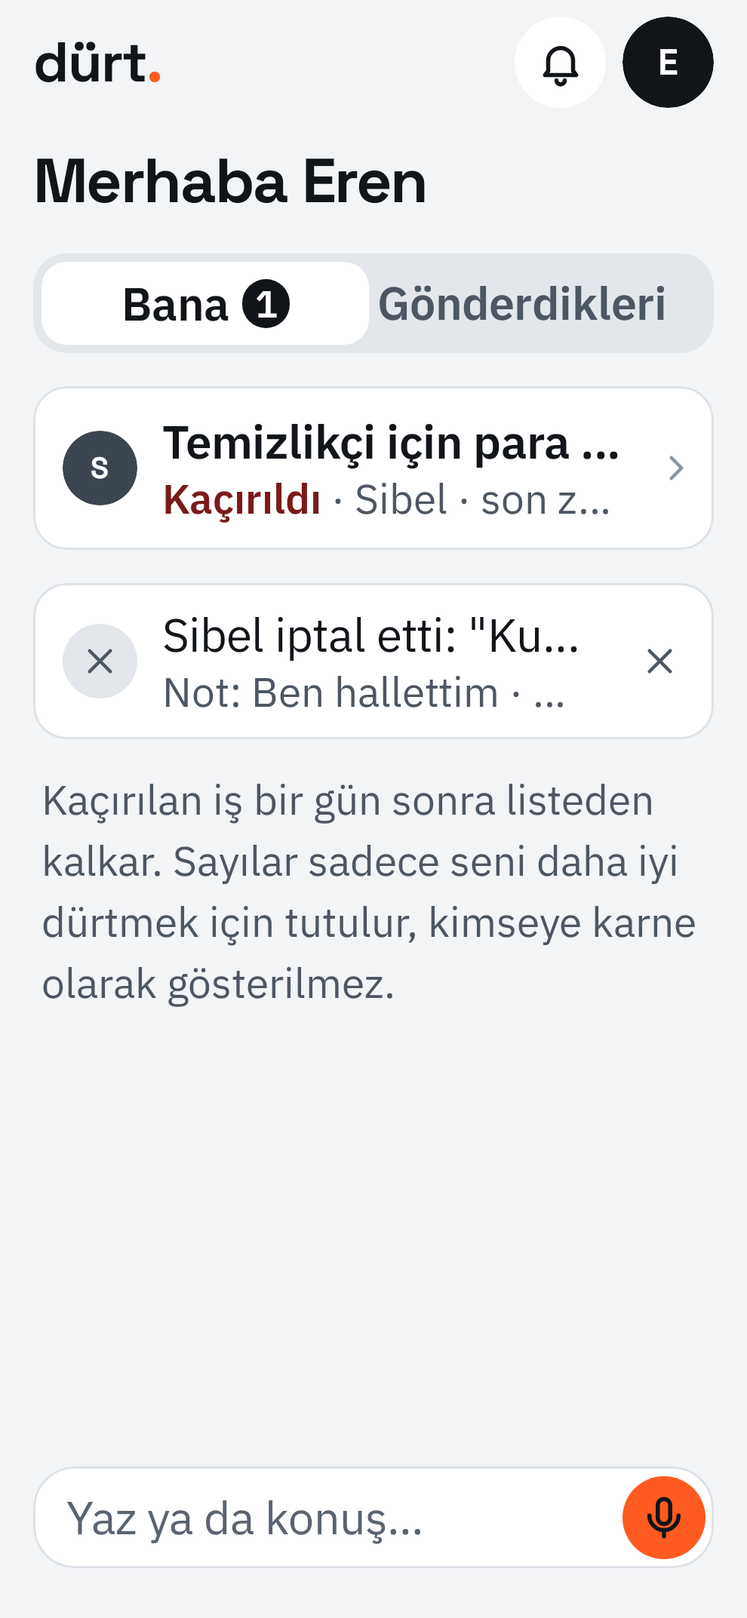
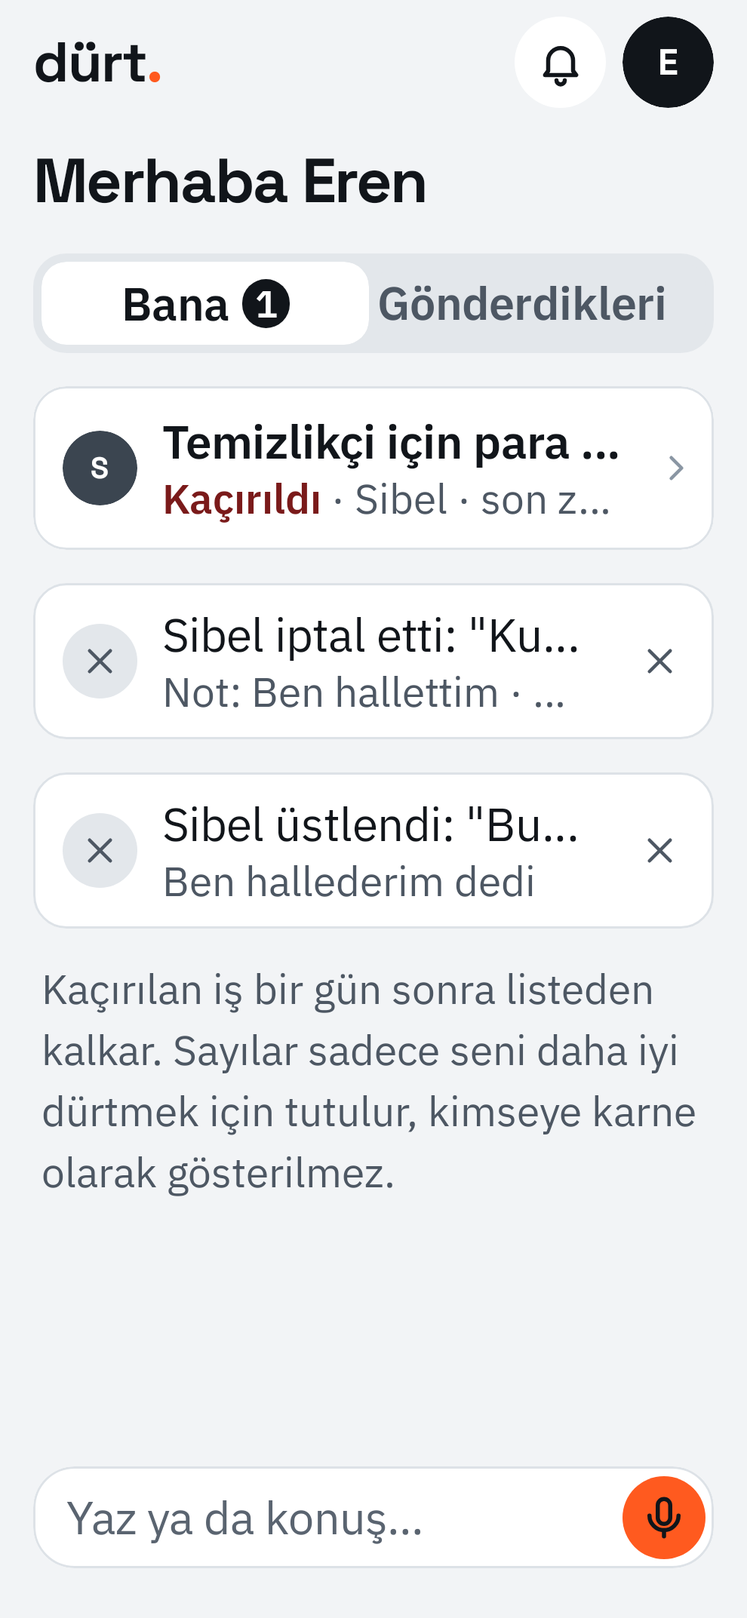
NUD-122 Ben hallederim puts the task in the sender's list
Ben hallederim on a dropped task only closed it, so it was in nobody's
list and the recipient was not told. It now also opens the same task for
the sender as a one-off to self at the same time (a passed time only
closes it), and the recipient's phone says "Sibel üstlendi".
open-questions #8 and #36, domain.md, screens 4j and testing.md change
with it.

Changed region(s): [[0.0606, 0.4685, 0.9394, 0.7497], [0.6667, 0.6872, 0.7576, 0.7184]]

diff --git a/apps/android/app/src/main/kotlin/app/nuddle/alarm/AndroidTaskAnnouncer.kt b/apps/android/app/src/main/kotlin/app/nuddle/alarm/AndroidTaskAnnouncer.kt
@@ -235,6 +235,10 @@ class AndroidTaskAnnouncer
                     context.getString(R.string.issue_reassigned_title, name, task.title) to stopped
                 }
 
+                TaskClose.Handled -> {
+                    context.getString(R.string.issue_handled_title, name, task.title) to context.getString(R.string.issue_handled_line)
+                }
+
                 TaskClose.Done -> {
                     context.getString(R.string.bell_done_title, name, task.title) to context.getString(R.string.bell_said_done)
                 }
@@ -244,30 +248,22 @@ class AndroidTaskAnnouncer
                 }
 
                 TaskClose.Missed -> {
-                    val line =
-                        when {
-                            task.finishMode == FinishMode.PHOTO.value && task.isMoment -> {
-                                context.getString(
-                                    R.string.issue_missed_photo_moment,
-                                )
-                            }
-
-                            task.finishMode == FinishMode.PHOTO.value -> {
-                                context.getString(R.string.issue_missed_photo)
-                            }
-
-                            task.isMoment -> {
-                                context.getString(R.string.issue_missed_done_moment, name)
-                            }
-
-                            else -> {
-                                context.getString(R.string.issue_missed_done, name)
-                            }
-                        }
-                    context.getString(R.string.close_missed_title, name, task.title) to line
+                    context.getString(R.string.close_missed_title, name, task.title) to missedLine(task, name)
                 }
             }
         }
+
+        /** Why a missed task counts as missed: no photo or no Bitti, by its moment or its deadline. */
+        private fun missedLine(
+            task: TaskEntity,
+            name: String,
+        ): String =
+            when {
+                task.finishMode == FinishMode.PHOTO.value && task.isMoment -> context.getString(R.string.issue_missed_photo_moment)
+                task.finishMode == FinishMode.PHOTO.value -> context.getString(R.string.issue_missed_photo)
+                task.isMoment -> context.getString(R.string.issue_missed_done_moment, name)
+                else -> context.getString(R.string.issue_missed_done, name)
+            }
 
         override fun withdrawCantReach(taskId: String) {
             NotificationManagerCompat.from(context).cancel(NotificationIds.reach(taskId))

diff --git a/apps/android/app/src/main/kotlin/app/nuddle/ui/screens/home/HomeIssues.kt b/apps/android/app/src/main/kotlin/app/nuddle/ui/screens/home/HomeIssues.kt
@@ -93,7 +93,11 @@ internal fun CancelledRow(
         Column(Modifier.weight(1f).semantics(mergeDescendants = true) {}) {
             Text(
                 stringResource(
-                    if (task.reassigned) R.string.issue_reassigned_title else R.string.issue_cancelled_title,
+                    when {
+                        task.handled -> R.string.issue_handled_title
+                        task.reassigned -> R.string.issue_reassigned_title
+                        else -> R.string.issue_cancelled_title
+                    },
                     task.byName,
                     task.title,
                 ),
@@ -104,7 +108,16 @@ internal fun CancelledRow(
             )
             Text(
                 text =
-                    task.note?.let { stringResource(R.string.separator_dot, stringResource(R.string.issue_note, it), stopped) } ?: stopped,
+                    when {
+                        task.handled -> {
+                            stringResource(R.string.issue_handled_line)
+                        }
+
+                        else -> {
+                            task.note?.let { stringResource(R.string.separator_dot, stringResource(R.string.issue_note, it), stopped) }
+                                ?: stopped
+                        }
+                    },
                 style = DurtTheme.type.caption,
                 color = colors.textSecondary,
                 maxLines = 1,
@@ -192,7 +205,7 @@ private fun IssuesPreviewOf(state: HomeUiState) {
     }
 }
 
-/** 7e in Bana: Eren missed a task from Sibel, and Sibel cancelled another. */
+/** 7e in Bana: Eren missed a task from Sibel, Sibel cancelled another and took over a third. */
 @PreviewScreens
 @Composable
 private fun HomeScreenMissedPreview() {
@@ -206,7 +219,12 @@ private fun HomeScreenMissedPreview() {
                         listOf(
                             MissedUi("t1", "Temizlikçi için para çek", DeadlineText.Today("09:00"), "sibel", "Sibel", "+905321234567"),
                         ),
-                    cancelled = listOf(CancelledUi("t2", "Kuru temizlemeyi al", "Sibel", "Ben hallettim")),
+                    cancelled =
+                        listOf(
+                            CancelledUi("t2", "Kuru temizlemeyi al", "Sibel", "Ben hallettim"),
+                            // Ben hallederim on a task Eren dropped (NUD-122).
+                            CancelledUi("t3", "Bulaşık makinesini boşalt", "Sibel", null, handled = true),
+                        ),
                 ),
         ),
     )

diff --git a/apps/android/app/src/main/kotlin/app/nuddle/ui/screens/home/Issues.kt b/apps/android/app/src/main/kotlin/app/nuddle/ui/screens/home/Issues.kt
@@ -35,6 +35,8 @@ data class CancelledUi(
     val note: String?,
     /** Kime changed (NUD-114): the sender gave the task to someone else, unnamed here. */
     val reassigned: Boolean = false,
+    /** Ben hallederim on a task I dropped (NUD-122): the sender took it over. */
+    val handled: Boolean = false,
 )
 
 enum class SentIssue { Dropped, Missed }
@@ -73,7 +75,7 @@ internal val CANCELLED_ROW_TTL = 1.days
 
 /**
  * The cards from the stored tasks and their events. A missed task to me shows while the server keeps it in my list
- * (one day); a cancel shows for a day, but not "Ben hallederim" on a task I dropped myself. Newest first.
+ * (one day); a cancel shows for a day, "Ben hallederim" on a task I dropped too (NUD-122). Newest first.
  */
 fun issues(
     tasks: List<TaskEntity>,
@@ -102,7 +104,14 @@ fun issues(
                 val cancel = events[task.id].orEmpty().lastOrNull { it.type == EventTypes.CANCELLED }
                 if (cancel == null || cancel.reason !in SHOWN_CANCELS) return@mapNotNull null
                 val by = connections[task.senderId] ?: return@mapNotNull null
-                CancelledUi(task.id, task.title, by.displayName, cancel.note, reassigned = cancel.reason == REASSIGNED)
+                CancelledUi(
+                    task.id,
+                    task.title,
+                    by.displayName,
+                    cancel.note,
+                    reassigned = cancel.reason == REASSIGNED,
+                    handled = cancel.reason == SENDER_HANDLES,
+                )
             }
     val sent =
         newestFirst
@@ -136,4 +145,5 @@ private const val SENDER_CANCELLED = "sender_cancelled"
 private const val REASSIGNED = "reassigned"
 
 /** The cancels the recipient sees a row for: the sender took the task back, or gave it to someone else. */
-private val SHOWN_CANCELS = setOf(SENDER_CANCELLED, REASSIGNED)
+private const val SENDER_HANDLES = "sender_handles"
+private val SHOWN_CANCELS = setOf(SENDER_CANCELLED, REASSIGNED, SENDER_HANDLES)

diff --git a/apps/web/test/scenario/task-lifecycle.test.ts b/apps/web/test/scenario/task-lifecycle.test.ts
@@ -375,6 +375,39 @@ describe("scenarios: task lifecycle", () => {
     expect(world.pendingActions(taskId)).toEqual([]);
   });
 
+  it("'Ben hallederim' puts the same task in the sender's own list (NUD-122)", async () => {
+    const { world, sibel, eren } = await sibelAndEren();
+    const taskId = await writeTask(sibel, TEXT.photoToEren);
+    await world.advanceTo(at("2026-10-12T07:40:00"));
+    expect(await eren.command(taskId, { type: "cant_today", note: null })).toEqual({ ok: true });
+    expect(await sibel.command(taskId, { type: "sender_handles" })).toEqual({ ok: true });
+
+    const mine = world.tasksWrittenBy("sibel").filter((t) => t.id !== taskId);
+    expect(mine).toHaveLength(1);
+    const taken = mine[0];
+    expect(taken).toMatchObject({
+      recipientId: sibel.person.id,
+      title: "Temizlikçi için para çek",
+      deadline: at("2026-10-12T09:00:00"),
+      status: "SCHEDULED",
+      // A photo to approve herself makes no sense on a task to self.
+      finishMode: "done",
+    });
+    await world.advanceTo(at("2026-10-12T09:30:00"));
+    expect(sibel.phone.ringsFor(taken?.id ?? "")).not.toEqual([]);
+    expect(world.task(taskId).status).toBe("CANCELLED");
+  });
+
+  it("'Ben hallederim' after the time has passed only closes it", async () => {
+    const { world, sibel, eren } = await sibelAndEren();
+    const taskId = await writeTask(sibel, TEXT.trashToEren);
+    await world.advanceTo(at("2026-10-12T18:46:00"));
+    expect(await eren.command(taskId, { type: "cant_today", note: null })).toEqual({ ok: true });
+    await world.advanceTo(at("2026-10-12T19:30:00"));
+    expect(await sibel.command(taskId, { type: "sender_handles" })).toEqual({ ok: true });
+    expect(world.tasksWrittenBy("sibel").map((t) => t.id)).toEqual([taskId]);
+  });
+
   it("human channel (7a): only while the task is open", async () => {
     const { world, sibel, eren } = await sibelAndEren();
     const taskId = await writeTask(sibel, TEXT.trashToEren);

diff --git a/apps/web/src/api/services.ts b/apps/web/src/api/services.ts
@@ -753,11 +753,52 @@ export async function taskCommand(
     // A sender's cancel ends a series; any other close brings the next occurrence (ADR 0021).
     const next =
       cmd.type === "cancel" ? noEffects : await spawnNextOccurrence(tx, deps, task, o, now);
+    // Ben hallederim: the same task lands in the sender's own list (NUD-122, open-questions#8).
+    const taken =
+      cmd.type === "sender_handles" ? await takeOver(tx, deps, caller.id, task, now) : null;
     return {
       result: { taskId: o.task.id, status: o.task.status, planVersion: o.task.planVersion },
-      effects: mergeEffects(effectsOf(o), next),
+      effects: mergeEffects(mergeEffects(effectsOf(o), next), taken ?? noEffects),
     };
   });
+}
+
+/**
+ * The task a sender takes over with Ben hallederim, as a one-off to self at the same time. A time
+ * already past leaves only the cancel: the sender sets a new one by writing it.
+ */
+async function takeOver(
+  tx: Tx,
+  deps: AppDeps,
+  senderId: PersonId,
+  task: Task,
+  now: Date,
+): Promise<Effects | null> {
+  const time = task.remindAt ?? task.deadline;
+  if (time.getTime() <= now.getTime()) return null;
+  const created = await createTaskTx(
+    tx,
+    deps,
+    senderId,
+    {
+      recipientId: senderId,
+      title: task.title,
+      detail: task.detail,
+      deadline: time,
+      timing: task.timing,
+      missAfterMinutes:
+        task.remindAt === null
+          ? null
+          : Math.round((task.deadline.getTime() - task.remindAt.getTime()) / MINUTE),
+      leadMinutes: task.leadMinutes,
+      // A photo to approve myself makes no sense; Bitti is enough on a task to self.
+      finishMode: task.finishMode === "photo" ? "done" : task.finishMode,
+      rawText: task.rawText,
+      repeat: null,
+    },
+    now,
+  );
+  return created.effects;
 }
 
 /**

diff --git a/apps/android/app/src/test/kotlin/app/nuddle/ui/IssuesTest.kt b/apps/android/app/src/test/kotlin/app/nuddle/ui/IssuesTest.kt
@@ -56,7 +56,7 @@ class IssuesTest {
     }
 
     @Test
-    fun `a cancel by the sender shows for a day with its note, but not Ben hallederim on a task I dropped`() {
+    fun `a cancel by the sender shows for a day with its note, and Ben hallederim as taken over`() {
         val cancelled = aTask(status = "CANCELLED").copy(statusChangedAt = (now - 23.hours).toEpochMilliseconds())
         val cancelEvent = event("cancelled", """{"reason":"sender_cancelled","note":"Ben hallettim"}""")
         val taken = aTask(id = "taken", status = "CANCELLED").copy(statusChangedAt = now.toEpochMilliseconds())
@@ -64,7 +64,14 @@ class IssuesTest {
         val events = mapOf(Cast.TASK_ID to listOf(cancelEvent), "taken" to listOf(takenEvent))
 
         val result = issues(listOf(cancelled, taken), events, Cast.EREN_ID, sibel, now, istanbul)
-        assertEquals(listOf(CancelledUi(Cast.TASK_ID, "Temizlikçi için para çek", "Sibel", "Ben hallettim")), result.cancelled)
+        // Ben hallederim on a task I dropped shows too, as taken over (NUD-122).
+        assertEquals(
+            listOf(
+                CancelledUi("taken", "Temizlikçi için para çek", "Sibel", null, handled = true),
+                CancelledUi(Cast.TASK_ID, "Temizlikçi için para çek", "Sibel", "Ben hallettim"),
+            ),
+            result.cancelled,
+        )
 
         val dayLater = issues(listOf(cancelled), events, Cast.EREN_ID, sibel, now + 1.hours, istanbul)
         assertTrue(dayLater.cancelled.isEmpty())

diff --git a/apps/android/app/src/main/kotlin/app/nuddle/data/sync/SyncRepository.kt b/apps/android/app/src/main/kotlin/app/nuddle/data/sync/SyncRepository.kt
@@ -106,6 +106,9 @@ sealed interface TaskClose {
     /** The sender gave the task to me to someone else (NUD-114). */
     data object Reassigned : TaskClose
 
+    /** I said Bugün olmaz and the sender took it over: Ben hallederim (NUD-122). */
+    data object Handled : TaskClose
+
     /** My task: the recipient said Bitti. */
     data object Done : TaskClose
 
@@ -383,8 +386,11 @@ private fun closeToMe(
     before: String,
     events: List<TaskEventEntity>,
 ): TaskClose? {
-    if (task.status != TaskStatus.CANCELLED || before !in STILL_MINE) return null
+    if (task.status != TaskStatus.CANCELLED) return null
     val cancel = events.lastOrNull { it.type == EventTypes.CANCELLED }
+    // Ben hallederim answers my own Bugün olmaz, so the task was no longer mine (NUD-122).
+    if (cancel?.reason == SENDER_HANDLES) return TaskClose.Handled.takeIf { before == TaskStatus.DROPPED.value }
+    if (before !in STILL_MINE) return null
     return when (cancel?.reason) {
         SENDER_CANCELLED -> TaskClose.Cancelled(cancel.note)
         REASSIGNED -> TaskClose.Reassigned
@@ -409,6 +415,7 @@ private fun closeOfMine(
 
 private const val SENDER_CANCELLED = "sender_cancelled"
 private const val REASSIGNED = "reassigned"
+private const val SENDER_HANDLES = "sender_handles"
 
 /** A task to me that was still mine here: open, waiting for approval or missed, not one I closed myself. */
 private val STILL_MINE =

diff --git a/apps/android/app/src/test/kotlin/app/nuddle/data/SyncAndOutboxTest.kt b/apps/android/app/src/test/kotlin/app/nuddle/data/SyncAndOutboxTest.kt
@@ -399,6 +399,27 @@ class SyncAndOutboxTest {
         }
 
     @Test
+    fun `Ben hallederim on a task I dropped tells me Sibel took it over (NUD-122)`() =
+        runTest {
+            sessions.cursor = "40"
+            val repo = syncRepository()
+            val dropped =
+                syncBody
+                    .replace("\"connections\":[]", sibelConnection)
+                    .replace("\"status\":\"SCHEDULED\"", "\"status\":\"DROPPED\"")
+            val handled =
+                dropped
+                    .replace("\"status\":\"DROPPED\"", "\"status\":\"CANCELLED\"")
+                    .replace("\"events\":[]", "\"events\":[${event(2, "cancelled", """{"reason":"sender_handles"}""")}]")
+            server.enqueue(json(200, dropped))
+            server.enqueue(json(200, handled))
+
+            repeat(2) { assertTrue(repo.sync()) }
+
+            assertEquals(listOf(TaskClose.Handled), announcer.closes.map { it.third })
+        }
+
+    @Test
     fun `what I closed myself, and a full sync, tell me nothing (NUD-115)`() =
         runTest {
             sessions.cursor = null

diff --git a/docs/open-questions.md b/docs/open-questions.md
@@ -11,7 +11,7 @@ Things not yet decided. If you hit one while building, do not decide silently: p
 5. **Setup copy for self-only users (2c).** Current copy mentions Sibel. *Default:* "İşlerini kaçırmaya başlarsan böyle dürterim."
 6. **Voice input cancel gesture.** *Decided (NUD-48):* no gesture. Voice input is tap to dictate into the box; the person deletes or fixes the text before sending.
 7. **Self tasks with photo mode.** *Default:* the photo closes the task, no approval step.
-8. **"Ben hallederim" on a dropped task (5d).** *Default:* closes as `CANCELLED` with reason `sender_handles`.
+8. **"Ben hallederim" on a dropped task (5d).** *Decided 2026-10-21 (NUD-122):* the task closes as `CANCELLED` with reason `sender_handles`, and the same task opens for the sender as a one-off to self at the same time (title, detail, timing, grace and lead kept; a photo task becomes "Bitti" since nobody else approves it), so it is in her list and pokes her. A time already past only closes it. The recipient gets the 4j notification "Sibel üstlendi: "Çöpü at"" | "Ben hallederim dedi", and the same row on home for a day. A tester tapped it and found the task nowhere.
 9. **"Sonradan yaptım" after missed.** *Default:* `DONE` with `late = true`.
 10. **Premium price and scope** (SMS, voice call / IVR, task by e-mail). Not needed for the MVP.
 
@@ -45,7 +45,7 @@ Things not yet decided. If you hit one while building, do not decide silently: p
 33. **Consent flow details** (0f, 0g, 1c, 1d). *Decided 2026-10-12:* the consent screen opens by itself once per open invite to me (right after sign-in, as soon as the first sync brings it; also for one that arrives later), then the invite waits in the bell. İzin ver → 0g → Başla → setup (2c) when a permission is missing, otherwise home. "Değiştir" opens a sheet "Sibel senin neyin?" with the six chips; my side starts as the inverse of the inviter's pick (parent ↔ child), and once changed the row adds "Senin için: Çocuğum". Lines with a name plus suffix are rephrased (#21): "İstediğin an bağlantıyı kaldırabilirsin. Karşı tarafa bildirim gitmez.", "Reddedersen karşı tarafa bildirim gitmez."; for "Diğer" the row reads "Sibel seni ekledi.". An invite that is no longer open: "Bu davet artık geçerli değil / Davet geri alınmış ya da daha önce cevaplanmış.". A failed answer: "Cevabın gitmedi / Bağlantını kontrol edip tekrar dene.". The name prefilled on 0e from an invite and the invited welcome (0b) come with invite links. Kept here so the number stays stable.
 34. **Task to someone else: copy with suffixes and details not in the design** (4a, 4b, 4c, 4i, 7c, 7d). Names and times take no suffix (#21). *Decided 2026-10-12:* 4b body "Temizlikçi için para çek · son zaman yarın 09:00. Bitince fotoğrafını istiyor." (no second sentence for a "Bitti" task); 4a deadline row "Yarın 09:00", button "Gönder", reachability "Şu an Eren için en güçlü dürtme: sesli bildirim."; 4i section "Senin yazdıkların" (the 5c name), toast title "Gönderildi", sub line "Eren · Para çek · yarın 09:00 · bitince fotoğraf"; 4c "Sibel yazdı · 14:32", with "Dün" or the date in front when it was not today; 7c reachability "Şu an Eren için en güçlü dürtme: tam ekran. Bitince sana yazarım." (levels "tam ekran", "sesli bildirim", "sessiz bildirim"; with none "Şu an Eren telefonunda dürtülemiyor. Bitince sana yazarım."), and no "Dürtmeler başladı" since the plan is hidden from the sender, hint "Bir satıra dokunup değiştirebilirsin. Eren değişikliği kısa bir notla görür."; only Son zaman (the 2b quick picks and Saat seç) and Nasıl bitsin can be changed, Kime and Detay stay as written (*changed 2026-10-19, NUD-114:* Kime can be changed too, screens.md Task detail); the row's sheet repeats "Eren değişikliği kısa bir notla görür." and a failed save says "Değişiklik gitmedi / Bağlantını kontrol edip tekrar dene."; 7d body "Dürtmeler hemen durur. Eren kısa bir not görür: "Sibel bu görevi iptal etti."". A new task from someone else is announced (4b) only when it arrives in a later sync, never for the tasks a sign-in brings. Once I have an active connection, home shows no invite card (neither 1a nor the compact one of 2f; 4c and 4i show none); inviting more people moves to Profile (5a). Kept here so the number stays stable.
 35. **Photo and approval: copy with suffixes and details not in the design** (4d, 4e, 4f, 4g, 6e). Names and times take no suffix (#21). *Default:* 4d sub line "Sibel görecek · 1.000 TL istendi", note "Fotoğrafı sadece Sibel görür, görev kapanınca silinir. ...", button "Gönder"; a round white shutter ("Fotoğraf çek") before the shot; for a task to self the sub line is only the detail and the note "Fotoğraf görev kapanınca silinir. ..."; without a camera (permission refused or none on the phone) "Kamera kullanılamıyor / Kamera izni olmadan fotoğraf çekemem. Fotoğrafsız da bitirebilirsin." with "Fotoğrafsız bitti". The next-up card of any photo task, to self too, has "Bitti, çek" with a camera icon. 4e "Fotoğrafı Sibel görüyor. Onaylayınca görev kapanır." with "Gönderildi · 08:24 · Dürtme durdu" ("Gönderiliyor · Dürtme durdu" while still uploading) and "Sibel bakmazsa 3 saat sonra kendiliğinden kapanır."; 4g "Dürtme kaldığı yerden devam ediyor" without the next time (#3) and "Yeni fotoğraf çek"; on both the deadline joins the line under the title ("1.000 TL · son zaman bugün 09:00"). 4f subline "Eren fotoğraf gönderdi · 08:24 · 1.000 TL istemiştin"; a photo that cannot be loaded says "Fotoğraf açılamadı." with Tekrar dene. When a photo comes, the sender gets "Eren fotoğraf gönderdi / Temizlikçi için para çek · onayını bekliyor." on the tasks channel, Gör opens 4f; in "Senin yazdıkların" the task shows "Onayını bekliyor" on top with "fotoğraf geldi". 6e: on the 4e card "Gönderilemedi · Dürtme durdu" opens the screen; its alert title is "Gönderilemedi: Sibel" instead of "Sibel'e gönderilemedi".
-36. **Drop, missed and human channel: copy with suffixes and details not in the design** (7f, 5d, 7e, 7a, 7b). Names, times and task titles take no suffix (#21). *Default:* 7f sub line "Sibel için bir not bırakmak ister misin? Zorunlu değil.", one chip at a time, the field "Ya da kendin yaz" wins over a chip, "Notla gönder" only once there is a note; the sheet opens from "Bugün yapamayacağım" on the full screen poke, while the notification's "Bugün olmaz" closes without a note, and a task to self closes without the sheet. 5d (in "Senin yazdıkların", on top; since NUD-67 a row under "Cevabını bekliyor" whose detail has the message and the buttons) sub line "Son zaman bugün 19:00"; dropped "Eren bugün yapamayacağını söyledi." plus "Not: vaktim olmadı" when there is one; missed "Son zaman geçti, fotoğraf gelmedi." ("..., Eren bitti demedi." for a Bitti task) plus "4 kez dürttüm." or "4 kez dürttüm, sana da haber verdim." once the human channel fired (nothing when no poke rang); "Yeni zaman ver" and "Süreyi uzat" open the 2b deadline picks in a sheet "Ne zamana kadar?" / "Eren yeni zamanı görür, dürtmeler baştan başlar." with Kaydet, "İptal et" cancels without the 7d sheet. 7e under "Sana yazılanlar" (since NUD-67 under "Sonra" in Bana, the message and buttons in the detail), sub line "Sibel · son zaman bugün 09:00" ("Kendine · ..." for a task to self), body "Son zaman geçti. Sibel haberdar, yeni bir zaman verebilir." ("Son zaman geçti." for a task to self), buttons "Sonradan yaptım" and "Ara" with the phone icon (no Ara without a number); the cancelled row "Sibel iptal etti: "Kuru temizlemeyi al"" with "Not: ben hallettim · Dürtmeler durdu" (only "Dürtmeler durdu" without a note) stays one day unless its ✕ removes it from this phone (NUD-67) and is not shown for "Ben hallederim" on a task I dropped. 7a title "Eren cevap vermiyor", body "Temizlikçi için para çek · son zaman 09:00. 4 kez dürttüm, tam ekran dahil, cevap yok." ("tam ekran dahil" only when a full screen rang), big text adds "Bir arasan iyi olur. Ben dürtmeye devam ediyorum."; it goes away when the task closes. 7b shows my tasks to others from the last 7 days under "Bugün", "Dün" or the date: "Eren cevap vermiyor: Temizlikçi için para çek" / "Son zaman bugün 09:00 · bir arasan iyi olur" (marked unread and counted on the bell badge while the task is still open, and then it opens 7c), "Eren bitirdi: "Çöpü at"" with "Bitti dedi", "Fotoğrafsız bitti dedi", "Sonradan yaptığını söyledi", "Onayladın" or "Kendiliğinden onaylandı", and "Eren bugün yapamayacak: "Kuru temizleme"" with the note ("Bırakıldı" without one). The 7b footnote follows the entries.
+36. **Drop, missed and human channel: copy with suffixes and details not in the design** (7f, 5d, 7e, 7a, 7b). Names, times and task titles take no suffix (#21). *Default:* 7f sub line "Sibel için bir not bırakmak ister misin? Zorunlu değil.", one chip at a time, the field "Ya da kendin yaz" wins over a chip, "Notla gönder" only once there is a note; the sheet opens from "Bugün yapamayacağım" on the full screen poke, while the notification's "Bugün olmaz" closes without a note, and a task to self closes without the sheet. 5d (in "Senin yazdıkların", on top; since NUD-67 a row under "Cevabını bekliyor" whose detail has the message and the buttons) sub line "Son zaman bugün 19:00"; dropped "Eren bugün yapamayacağını söyledi." plus "Not: vaktim olmadı" when there is one; missed "Son zaman geçti, fotoğraf gelmedi." ("..., Eren bitti demedi." for a Bitti task) plus "4 kez dürttüm." or "4 kez dürttüm, sana da haber verdim." once the human channel fired (nothing when no poke rang); "Yeni zaman ver" and "Süreyi uzat" open the 2b deadline picks in a sheet "Ne zamana kadar?" / "Eren yeni zamanı görür, dürtmeler baştan başlar." with Kaydet, "İptal et" cancels without the 7d sheet. 7e under "Sana yazılanlar" (since NUD-67 under "Sonra" in Bana, the message and buttons in the detail), sub line "Sibel · son zaman bugün 09:00" ("Kendine · ..." for a task to self), body "Son zaman geçti. Sibel haberdar, yeni bir zaman verebilir." ("Son zaman geçti." for a task to self), buttons "Sonradan yaptım" and "Ara" with the phone icon (no Ara without a number); the cancelled row "Sibel iptal etti: "Kuru temizlemeyi al"" with "Not: ben hallettim · Dürtmeler durdu" (only "Dürtmeler durdu" without a note) stays one day unless its ✕ removes it from this phone (NUD-67) and for "Ben hallederim" on a task I dropped reads "Sibel üstlendi: "Kuru temizlemeyi al"" with "Ben hallederim dedi" (NUD-122). 7a title "Eren cevap vermiyor", body "Temizlikçi için para çek · son zaman 09:00. 4 kez dürttüm, tam ekran dahil, cevap yok." ("tam ekran dahil" only when a full screen rang), big text adds "Bir arasan iyi olur. Ben dürtmeye devam ediyorum."; it goes away when the task closes. 7b shows my tasks to others from the last 7 days under "Bugün", "Dün" or the date: "Eren cevap vermiyor: Temizlikçi için para çek" / "Son zaman bugün 09:00 · bir arasan iyi olur" (marked unread and counted on the bell badge while the task is still open, and then it opens 7c), "Eren bitirdi: "Çöpü at"" with "Bitti dedi", "Fotoğrafsız bitti dedi", "Sonradan yaptığını söyledi", "Onayladın" or "Kendiliğinden onaylandı", and "Eren bugün yapamayacak: "Kuru temizleme"" with the note ("Bırakıldı" without one). The 7b footnote follows the entries.
 37. **Profile and settings: copy and details not in the design** (5a, 5b, 7g, 7h, 7i). Names take no suffix (#21). *Default:* 5a "Düzenle" opens a sheet "Adın" with the name field and "Kaydet" (the 0e rename); "Bizimkiler" lists active connections with their relationship ("Eşin", "Diğer"), then pending invites with "Bekliyor" (not tappable), then "+ Birini davet et"; the quiet hours row reads "23:00-07:00"; a permission row shows a check when granted and "Kapalı · Düzelt" (opens the same system page as setup) when not; a switch or quiet hours change goes out at once and regenerates the plans it affects (`docs/domain.md`). 5b sub line "Eşin · 3 aydır bağlısınız" ("bugün bağlandınız", "N gündür", "N aydır", "N yıldır" in calendar units), the switch "İşleri için bana haber verilebilir" (the design's "Sibel'in" would suffix the name) with "Sibel bir işi kaçırırsa sana da söyleyebilirim.", the caption "Sibel bildirim almaz. Açık görevleriniz iptal olur." (for "Sibel'e bildirim gitmez"), "İlişki" opens the 1e chips in a sheet "Sibel senin neyin?" with Kaydet, "Birbirinize yazdığınız" counts every task between the two in either direction, the stats show only "Birbirinize yazdığınız N görev" (#4), and "Bağlantıyı kaldır" asks first in a sheet "Bağlantı kaldırılsın mı?" with the caption as its body, Danger "Bağlantıyı kaldır" and "Vazgeç"; removing cancels every task between the two that is not closed, with reason `connection_removed` and no notification to the other side. 7g uses the Material time picker under the two boxes. 7h body "Bu telefonda dürtmeler çalmaz. Sana yazılan işler kaçabilir, yazan kişi de sana ulaşamadığımı görür." ("Bu telefonda dürtmeler çalmaz, işlerin kaçabilir." without a connection). 7i second line "Sana yazılan açık işler iptal olur, yazana haber veririm." (left out without a connection). Log out and delete need the network; a failure says "Olmadı / Bağlantını kontrol edip tekrar dene." in the sheet. Kept here so the number stays stable.
 38. **Missed ring and permission warnings: rules and copy not in the design** (2g, 2h). Times take no suffix (#21). *Default:* the bell lists, under "Yeni" and before invites, "Son dürtmen çalmadı" and then one card per permission that is off, in setup order, each with "Düzelt" and counted on the bell badge. A loss is the newest `poke_lost` of a task to me, or the newest poke due while the app was force stopped (found on the next launch, which also sets the alarms again). The card stays until a poke rings on this phone after the loss or every brand step was done after it. Full screen off: "Bugünkü / Yarınki / Sıradaki "Para çek" dürtmen sadece bildirim olarak gelecek. Kaçırma ihtimalin artıyor." for my next full screen poke, "Dürtmelerin ekranı açamayacak, sadece bildirim olarak gelecek. Kaçırma ihtimalin artıyor." without one; alarms off "Alarm izni kapalı" / "Dürtmelerin tam saatinde çalmayabilir, bazen dakikalarca geç kalabilir."; notifications off "Bildirimler kapalı" / "Bildirimler kapalıyken seni dürtemem, hiçbir dürtme gelmez." Permission "Düzelt" opens the same system page as setup. 2h body "Seni dün 08:15 için dürtecektim, telefonun beni kapatmış." plus the brand sentence from the server and "İki ayarla düzelir." ("Tek ayarla düzelir." for one step); the design's step list is the 2e PermissionStep with "Ayarı aç". A step counts as done once its page was opened after the loss, or, for a step the phone can check (battery optimization), only when the check passes. The "Daha önce" entry ""Para çek" kuruldu" is not added: older bell entries are the 7b day groups.
 39. **Offline and errors: rules and copy not in the design** (6a, 6b, 6d, 6f). *Default:* 6a: home shows the StatusBanner while the phone has no network with internet (not whether Android validated it: some networks never pass that check). A text whose write gets no answer while there is no network cannot be understood without the server, so it waits on the phone under "Senin yazdıkların" as a row with the text as written, "bağlantı gelince gidecek" and "Sırada" (the design's "Sibel'e" is left out: the recipient is not known yet); the bar is empty again at once. When the connection is back while home is open, the texts go out oldest first with the key they got; one that needs an answer opens the preview (2b, 4a) and the rest wait until it is closed; one the server could not understand stays queued. Bitti, Ertele and Bugün olmaz already wait in the outbox; a Bitti tapped offline before the deadline still counts after it (`doneAt`, `docs/domain.md`). 6b: a write that gets no answer (timeout, or the connection cut because the app went to the background) is first sent again once with the same key, which returns the task the server already made (NUD-53); a write or Kur that still fails while online (no answer, or `upstream_failed`) keeps the text in the bar with "Tekrar dene" and the InlineAlert "Şu an anlayamadım / Sunucuya ulaşırken bir sorun oldu. Yazdığın duruyor, tekrar dene." above it, until the text changes or is sent again. 6d: an invite link whose invite is not open for me (used, revoked, declined, or still not on this phone after a sync) opens 6d instead of the bell (an invite that closes while its consent screen is open keeps that screen's own note); "Ana ekrana dön" and the back arrow go home, "Birini ben davet edeyim" opens 1b. 6f: a write or Kur answered with `internal` or a code the app does not know opens 6f with that code ("Hata kodu: DRT-5001"); "Tekrar dene" sends the same text with the same key, "Ana ekrana dön" leaves it in the bar as in 6b. The code is reported to Crashlytics as a non-fatal error with the code as a key (NUD-39), and to the log; the e2e flavor collects nothing.

diff --git a/docs/ux/screens.md b/docs/ux/screens.md
@@ -221,6 +221,7 @@ Sender side. Shows the extracted task, finish mode choice (photo preselected for
 No design PNG. A system notification on the `tasks` channel, one per task, posted when a sync (not a full sync after sign-in or a reinstall) shows that the other person closed a task between us, so it never just vanishes from a list. Nothing for what I did myself, for a one-time message (NUD-79), or for a removed connection (5b stays silent). The home row and the bell stay as they are; the words are theirs.
 - To me, the sender cancelled: "Sibel iptal etti: "Çöpü at"" | "Not: ben hallettim · Dürtmeler durdu" (no note: "Dürtmeler durdu"). Opens home.
 - To me, given to someone else (NUD-114): "Sibel bu görevi başka birine verdi: "Çöpü at"" | "Dürtmeler durdu". Opens home.
+- To me, I said I can't and the sender took it over (Ben hallederim, NUD-122): "Sibel üstlendi: "Çöpü at"" | "Ben hallederim dedi". Opens home.
 - Mine, done: "Eren bitirdi: "Çöpü at"" | "Bitti dedi". Opens home.
 - Mine, can't today: "Eren bugün yapamayacak: "Çöpü at"" | "Not: yarın hallederim" (no line without a note). Opens the task (5d).
 - Mine, missed: "Eren yetiştiremedi: "Çöpü at"" | "Son zaman geçti, Eren bitti demedi." (photo: "Son zaman geçti, fotoğraf gelmedi."; an `at` task says "Zamanı geçti"). Opens the task (5d).

diff --git a/docs/testing.md b/docs/testing.md
@@ -118,7 +118,7 @@ Each case is one thing that happens between a sender and a recipient, checked on
 2. Eren taps Şimdiden bitti: done on the server, his card, alarms and notifications go, her row goes.
 3. A poke is up on Eren's phone (app in the background) and Sibel cancels the task in the app: the poke and the alarms go from his phone, her row goes, his home says she cancelled it.
 4. The full screen poke rings and Eren taps Ertele: counted on the server, his card says when it rings again, his alarms stay, her row stays; Bitti then closes it on both.
-5. Eren answers Bugün yapamayacağım: his pokes stop, Sibel's home has the dropped card; Ben hallederim closes it on her side and nothing comes back on his.
+5. Eren answers Bugün yapamayacağım: his pokes stop, Sibel's home has the dropped card; Ben hallederim closes it, opens the same task in her own list, and his phone shows "Sibel üstlendi".
 6. Nobody answers until the deadline: missed on the server, the poke goes from his phone, both homes have the missed card; Sonradan yaptım closes it on both.
 7. Sibel moves a far deadline close: Eren's phone takes the new plan and rings its first step; her cancel then leaves nothing on his phone.
 

diff --git a/docs/domain.md b/docs/domain.md
@@ -49,7 +49,7 @@ Client-only status: `QUEUED` (written offline, not yet on the server).
 | `MISSED` | "Süreyi uzat" (new deadline) | `SCHEDULED` | sender |
 | `MISSED` | cancel | `CANCELLED` | sender |
 | `DROPPED` | "Yeni zaman ver" (new deadline) | `SCHEDULED` | sender |
-| `DROPPED` | "Ben hallederim" | `CANCELLED` with reason `sender_handles` **(proposed)** | sender |
+| `DROPPED` | "Ben hallederim" | `CANCELLED` with reason `sender_handles`; the same task opens for the sender as a task to self at the same time, unless it has passed (NUD-122, open-questions #8) | sender |
 | any status but `DONE` and `CANCELLED` | either side deletes the account | `CANCELLED` with reason `account_deleted`, the other side is told | server |
 | any status but `DONE` and `CANCELLED` | either side removes the connection (5b) | `CANCELLED` with reason `connection_removed`, no notification to the other side **(proposed)** | server |
 | `SCHEDULED`, `REJECTED` | a setting the plan depends on changed (quiet hours, a human channel switch) | same status, plan regenerated from the level already reached **(proposed)** | server |
